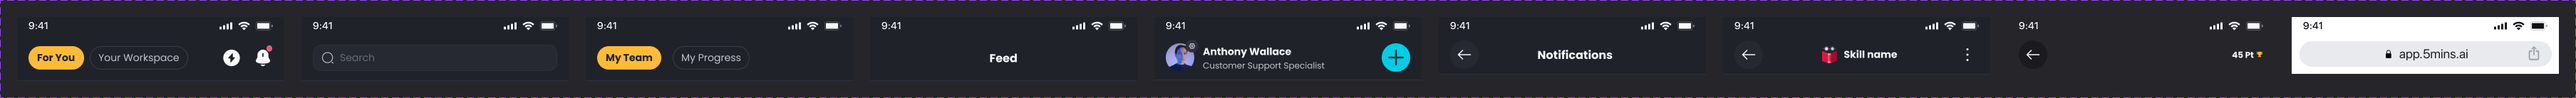
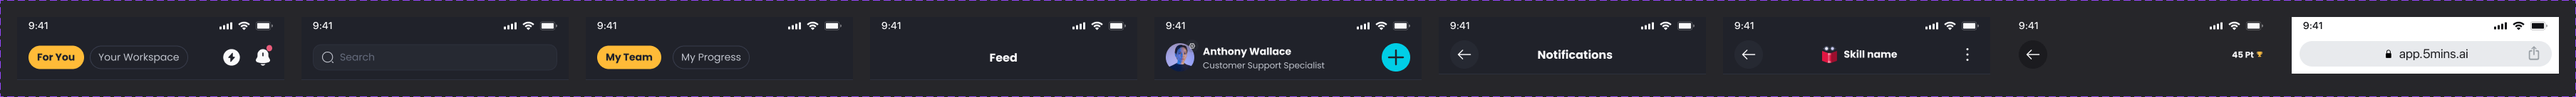
App top nav: top-level bars 64px; settings badge uses Input-background
Figma: Home, Search, Progress and Feed headers 65 → 64 in both sets; the
profile badge rebound from a deleted Input-background variable to the
current one. Code, spec, docs and frames follow.

diff --git a/apps/shell/src/modules/components/app-top-navigation/AppTopNavigationCompare.tsx b/apps/shell/src/modules/components/app-top-navigation/AppTopNavigationCompare.tsx
@@ -9,12 +9,12 @@ const compare: Compare = {
   frames: { light: '/figma/app-top-navigation-light.png', dark: '/figma/app-top-navigation-dark.png' },
   live: (mode) => <AppTopNavigationMatrix mode={mode} />,
   differences: [
-    { property: 'Bar', figma: '375 wide, Page-background, 1px Border underneath (inside); 65px on Home, Search, Progress and Feed, 64 on Profile, 56 on the rest', reference: 'Same heights per page', status: 'Matches', note: '65 isn’t on the 2/4px grid, and Profile is 1px shorter than the other top-level pages.' },
+    { property: 'Bar', figma: '375 wide, Page-background, 1px Border underneath (inside); 64px on the top-level pages (Home, Search, Progress, Feed, Profile), 56 on the rest', reference: 'Same heights per page', status: 'Matches', note: 'Home, Search, Progress and Feed were 65; set to 64 on 2026-09-29.' },
     { property: 'Divider', figma: 'Every page but Lesson feed', reference: 'Same', status: 'Matches', note: 'navigation.md said Home had none; it’s updated.' },
     { property: 'Chips', figma: 'Chips instances, 33px; Home 8px apart, Progress 16', reference: 'The 5Mins Chip; same gaps', status: 'Matches', note: 'Two gaps for the same group; worth settling on one.' },
     { property: 'Home icons', figma: 'flash-circle and notification-bing Bold 28, Text-primary, 16px apart; 8 × 9 Text-error Nudge', reference: 'FlashCircle and NotificationBing Bold 28; an 8px dot', status: 'Matches', note: 'The prototype uses the plain Notification bell.' },
     { property: 'Search', figma: 'Search, Size=M, full width', reference: 'The 5Mins Search (M)', status: 'Matches' },
-    { property: 'Profile', figma: 'Avatar 40, 18px settings badge (Input-background, setting-2 12), name Bold 14, role Regular 12/1.2, 2px apart; 40px Primary-500 add button', reference: 'Same; the badge uses Neutral-200 / Neutral-500, the solid colour behind Input-background', status: 'Matches', note: 'Our Input-background token has the fields’ 16% built in; Figma adds it on the paint.' },
+    { property: 'Profile', figma: 'Avatar 40, 18px settings badge (Input-background, setting-2 12), name Bold 14, role Regular 12/1.2, 2px apart; 40px Primary-500 add button', reference: 'Same (the badge is Input-background)', status: 'Matches', note: 'The badge was bound to a deleted Input-background variable (solid Neutral-50 / Neutral-700); rebound to the current one on 2026-09-29.' },
     { property: 'Detail page', figma: 'Back 40, the title fills and centres, a 32px slot on the right', reference: 'Same (the slot takes an action)', status: 'Matches', note: 'The title sits 4px right of centre because the sides differ (40 and 32).' },
     { property: 'Skill', figma: 'Skill illustration 24, title Bold 14, Remix more-vertical in a 32px button', reference: 'skillIcon slot; MoreVerticalIcon copied from Figma', status: 'Matches' },
     { property: 'Lesson feed back', figma: 'Dark: a fixed #0F1014 at 50% fill, arrow in Text-primary. Light: no fill, dark arrow', reference: 'Neutral-900 at 50% and a Neutral-25 arrow in both modes', status: 'Design to update', note: 'The light copy has lost the fill, so a dark arrow sits on the video. The points text has the same issue.' },

diff --git a/packages/components/src/Navigation/AppTopNav.tsx b/packages/components/src/Navigation/AppTopNav.tsx
@@ -69,10 +69,10 @@ export interface AppTopNavProps {
 
 // Header heights per page, from Figma (the 1px Border is drawn inside).
 const HEIGHT: Record<AppTopNavPage, number> = {
-  home: 65,
-  search: 65,
-  progress: 65,
-  feed: 65,
+  home: 64,
+  search: 64,
+  progress: 64,
+  feed: 64,
   profile: 64,
   detail: 56,
   skill: 56,
@@ -245,9 +245,7 @@ export function AppTopNav({
                   width: 18,
                   height: 18,
                   borderRadius: theme.tokens.radius.full,
-                  // Figma: Input-background at 100%. Our token carries the fields' 16%, so this
-                  // uses the colour behind it (Neutral-200 light, Neutral-500 dark).
-                  backgroundColor: theme.tokens.palette.neutral[theme.tokens.mode === 'dark' ? 500 : 200],
+                  backgroundColor: theme.tokens.semantic.inputBackground,
                   color: theme.tokens.semantic.textPrimary,
                   '&.Mui-focusVisible': { outline: `2px solid ${theme.tokens.semantic.primaryButtonBackground}` },
                 })}

diff --git a/apps/shell/src/modules/components/app-top-navigation/AppTopNavigationGuidelines.tsx b/apps/shell/src/modules/components/app-top-navigation/AppTopNavigationGuidelines.tsx
@@ -12,7 +12,7 @@ const g: Guidelines = {
   anatomy: {
     example: <Phone><Sample page="home" statusBar={false} /></Phone>,
     parts: [
-      { name: 'Bar', description: '375 wide, Page-background, a 1px Border underneath. 65px on top-level pages (padding 12/16), 56px on detail pages (padding 8/16).' },
+      { name: 'Bar', description: '375 wide, Page-background, a 1px Border underneath. 64px on top-level pages (padding 12/16), 56px on detail pages (padding 8/16).' },
       { name: 'Chips', description: 'The 5Mins Chip: Home 8px apart, Progress 16px apart.' },
       { name: 'Icon actions', description: 'Home: flash-circle and notification-bing, Bold 28 in Text-primary, 16px apart. An 8px Text-error dot marks new notifications.' },
       { name: 'Back', description: '40px round, Input-background, arrow-left Linear 24.' },

diff --git a/apps/shell/e2e/app-top-navigation.spec.ts b/apps/shell/e2e/app-top-navigation.spec.ts
@@ -36,7 +36,7 @@ test('bar heights, padding and border per page match Figma', async ({ page }) =>
         }),
       ),
     )
-    const heights = { home: 65, search: 65, progress: 65, feed: 65, profile: 64, detail: 56, skill: 56, 'lesson-feed': 56 }
+    const heights = { home: 64, search: 64, progress: 64, feed: 64, profile: 64, detail: 56, skill: 56, 'lesson-feed': 56 }
     for (const [p, h] of Object.entries(heights)) {
       expect(rows[p].h, p).toBe(h)
       expect(rows[p].status, p).toBe(25)

diff --git a/playground/docs/design-system/navigation.md b/playground/docs/design-system/navigation.md
@@ -211,7 +211,7 @@ The learner **mobile app** chrome (phone-frame prototype): a top header and a bo
 
 ### Top header (375 wide, per-page variants)
 
-The Figma component includes the iOS status bar (clock "9:41" + signal/wifi/battery, 16px/4px padding) above the header row; the prototype component renders a lightweight equivalent. Header row: `--page-background`, 1px bottom border `--border` on every page except Lesson feed (re-checked 2026-09-29: Home has the divider too); **Lesson feed is fully transparent** (floats over content). Heights: 65px on Home, Search, Progress and Feed, 64 on Profile, 56 on Detail page, Skill and Lesson feed.
+The Figma component includes the iOS status bar (clock "9:41" + signal/wifi/battery, 16px/4px padding) above the header row; the prototype component renders a lightweight equivalent. Header row: `--page-background`, 1px bottom border `--border` on every page except Lesson feed (re-checked 2026-09-29: Home has the divider too); **Lesson feed is fully transparent** (floats over content). Heights: 64px on the top-level pages (Home, Search, Progress, Feed, Profile; set 2026-09-29, were 65), 56 on Detail page, Skill and Lesson feed.
 
 | Page variant | Node | Height | Contents |
 |---|---|---|---|
@@ -219,7 +219,7 @@ The Figma component includes the iOS status bar (clock "9:41" + signal/wifi/batt
 | Search | `7632:8029` | 65px | Full-width search field: `--input-background` fill, 1px `--border`, radius 12px, 12px/8px padding, 18px magnifier, placeholder Poppins Regular 14 `--text-disabled` |
 | Progress | `7632:8164` | 65px | Chips "My Team" / "My Progress" |
 | Feed | `7632:8202` | 65px | Centered title Poppins Bold 16/1.5 `--text-primary` |
-| Profile | `7632:8270` | auto, 16px/12px pad | 40px avatar with an 18px settings badge (top-right, solid Input-background: `--neutral-200` light / `--neutral-500` dark, 12px `setting-2` Linear icon), name Bold 14 + role Regular 12 `--text-secondary` (2px gap); right 40px `--primary-500` circular add button (`add` Linear, `--neutral-800`) |
+| Profile | `7632:8270` | auto, 16px/12px pad | 40px avatar with an 18px settings badge (top-right, `--input-background`, 12px `setting-2` Linear icon), name Bold 14 + role Regular 12 `--text-secondary` (2px gap); right 40px `--primary-500` circular add button (`add` Linear, `--neutral-800`) |
 | Detail page | `6162:9788` | auto, 16px/8px pad | Back button left, centered title Bold 16, empty 32px right spacer to keep the title centered |
 | Skill | `8377:1056` | auto, 16px/8px pad | Back button, 24px skill illustration + title Bold **14**, right 24px vertical kebab |
 | Lesson feed | `7645:4829` | auto, 16px/8px pad | Transparent; back button on a fixed `rgba(15,16,20,0.5)` legibility fill; right "45 Pt" Bold 12 + small trophy |

diff --git a/docs/phase-1-batch-14-notes.md b/docs/phase-1-batch-14-notes.md
@@ -28,7 +28,7 @@ Checked 2026-09-29.
   - **Detail page:** back, a centred title and a 32px action slot.
   - **Skill:** back, the skill icon with a Bold 14 title, and more options.
   - **Lesson feed:** transparent, back on a dark 50% fill, and the points with the Points illustration.
-  - **Sizes:** heights follow Figma per page (65 / 64 / 56). The Border is drawn inside.
+  - **Sizes:** 64px on the top-level pages and 56 on the rest. The Border is drawn inside.
   - **Status bar:** `statusBar` adds an aria-hidden iOS stand-in for prototypes. It's off by default, because the phone draws the real one.
 - **New icons:**
   - `FeedIcon` and `MoreVerticalIcon` (the Remix RiMore2Line), copied from Figma.
@@ -41,17 +41,19 @@ Checked 2026-09-29.
   - The light copy has lost the back button's dark fill, and the arrow and points use Text-primary, so they turn dark over the video.
   - Code follows the dark set in both modes: Neutral-900 at 50% behind a Neutral-25 arrow.
   - The dark set's fill is a raw `#0F1014` at 50%; it could be bound to Neutral-900.
-- **Heights:**
-  - The top-level bars are 65px, which is off the 2/4px grid.
-  - Profile is 64, 1px shorter than the others.
 - **Chip gaps:** Home spaces its chips 8px apart and Progress 16. It's the same group, so it's worth settling on one.
 - **Detail page:** the title sits 4px right of centre, because the sides are 40 (back) and 32 (the slot).
-- **Settings badge:**
-  - Figma fills it with Input-background at 100%. Our token has the fields' 16% built in, so code uses the solid colour behind it (Neutral-200 light, Neutral-500 dark).
-  - At 18px it's a small touch target. The Guidelines suggest the avatar opens settings too.
+- **Settings badge:** at 18px it's a small touch target. The Guidelines suggest the avatar opens settings too.
 - **Focus:** Figma has no focus state for tabs or icon buttons. Code adds the 2px Primary ring used elsewhere.
 - **Mobile web:** not built. It's the browser's own chrome, for mockups.
 - **Skill icon:** the skill illustrations come with the Illustrations batch. The docs use an Iconsax stand-in until then.
+
+## Follow-up (Bruno, 2026-09-29)
+- **Top-level bars are 64px:** Home, Search, Progress and Feed went from 65 to 64 in both Figma sets (the variants are now 89 tall with the status bar), and in code. Profile was already 64.
+- **The settings badge uses Input-background:**
+  - In Figma it was bound to a deleted Input-background variable (`7625:28470`: solid Neutral-50 light, Neutral-700 dark).
+  - It's now bound to the current Input-background (`10830:146`: Neutral-200 / Neutral-500 at 16%) in both sets.
+  - Code uses the `inputBackground` token.
 
 ## Prototype differences
 - **navigation.md** is fixed to match Figma:
